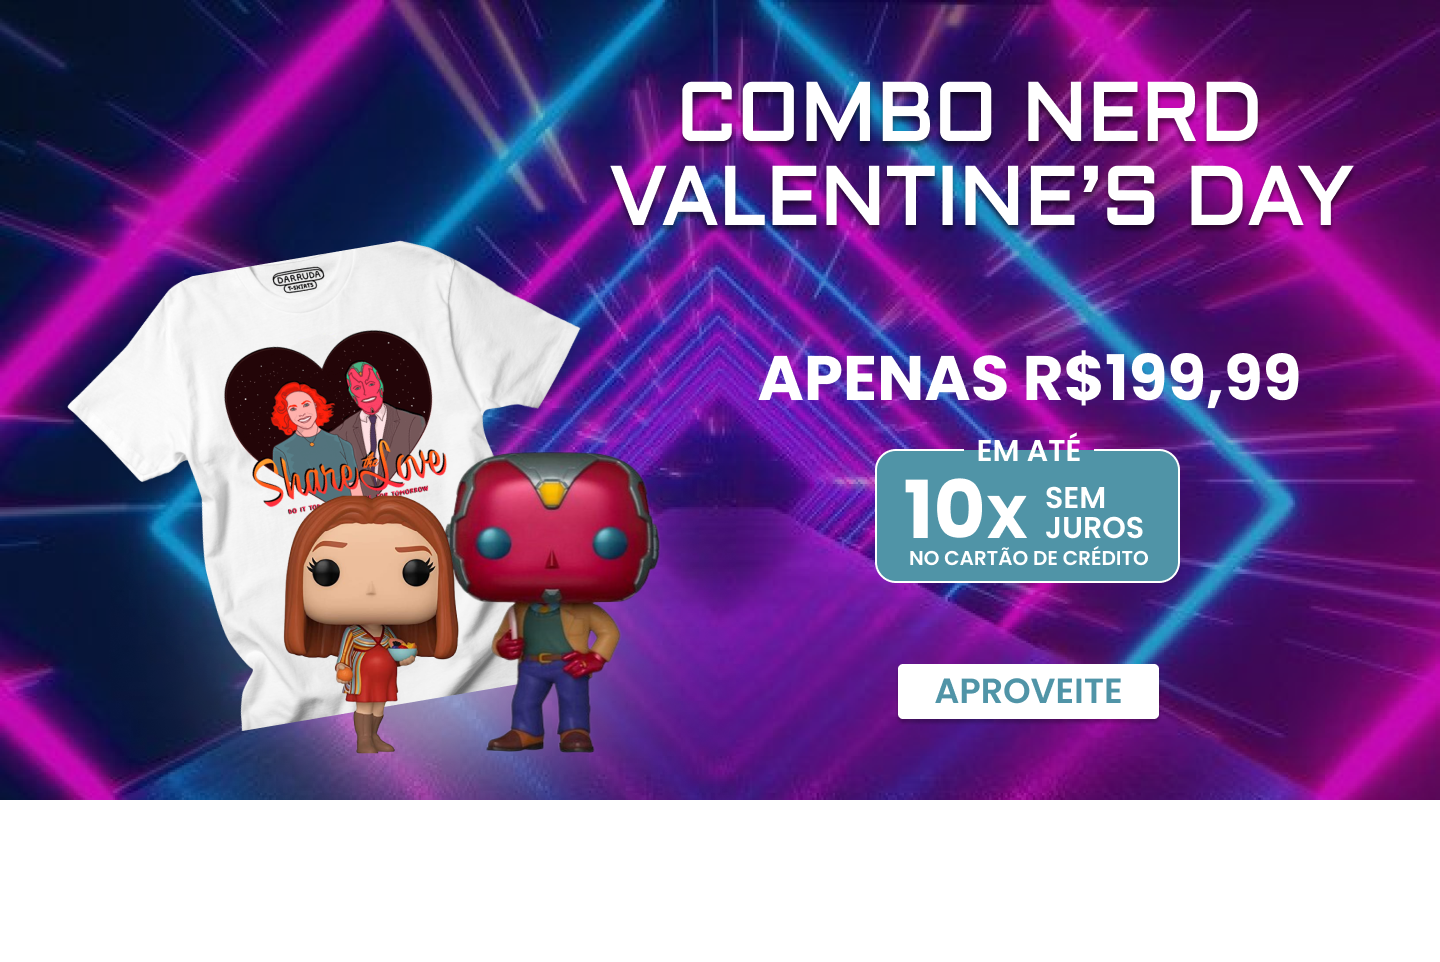
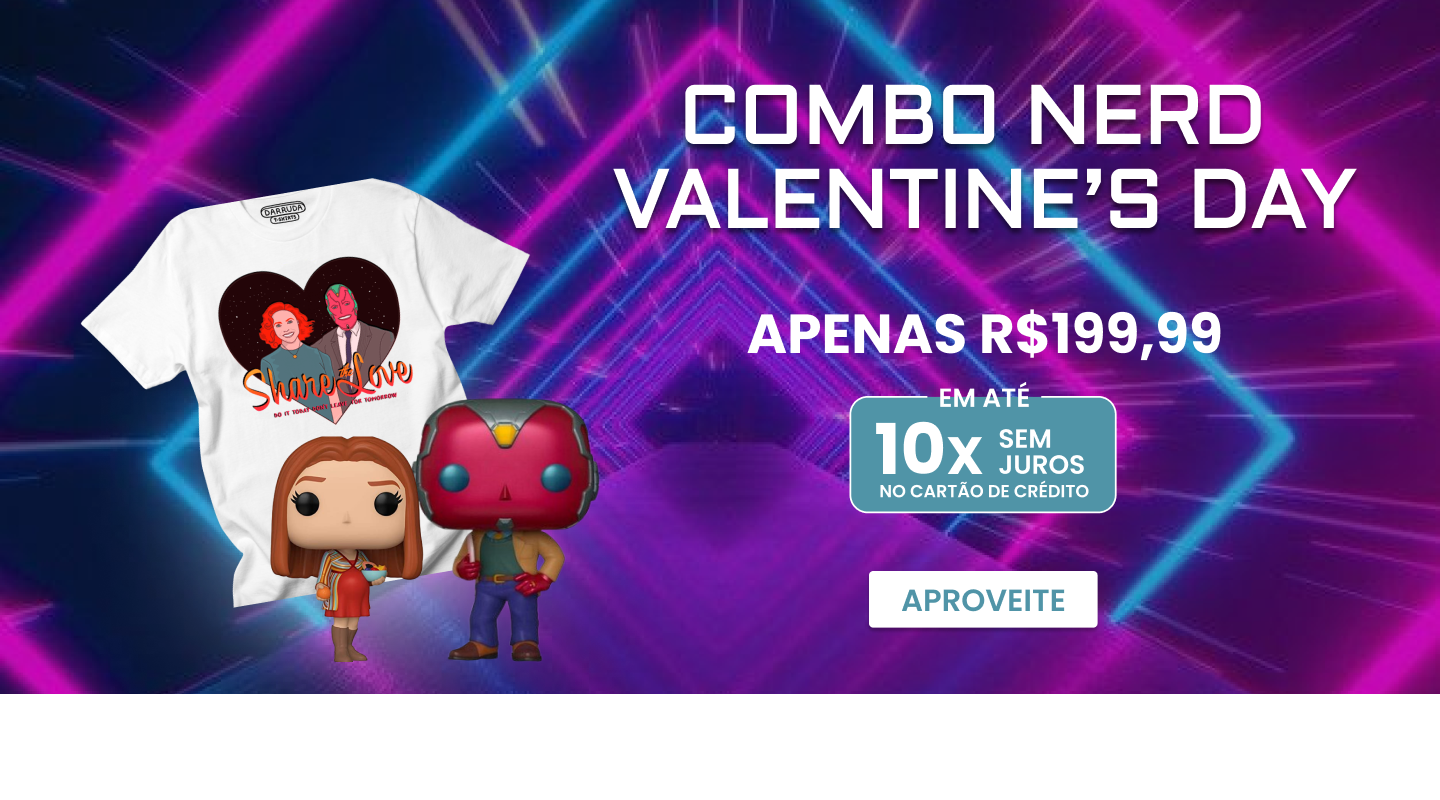
up2

diff --git a/styles/style-index.css b/styles/style-index.css
@@ -2,6 +2,7 @@
 body {
     margin: 0;
     padding: 0;
+    font-family: poppins;
     
     
 }
@@ -42,11 +43,15 @@ nav a {
 
 /*-----------------section--------------------------*/
 section {
-    padding-top: 50px;
-}
-
-section img {
-    max-width: 100%;
-    height: auto;
-    display: block;
-}
+    display: flex;
+    justify-content: center;
+    align-items: center;
+ 
+    background-color: white; /* Adicione essa linha para definir a cor de fundo */
+  }
+  
+  section img {
+    width: 100%;
+    height: 100%;
+    object-fit: cover; /* Adicione essa linha para fazer a imagem preencher o espaço disponível */
+  }

diff --git a/index.html b/index.html
@@ -6,6 +6,7 @@
     <meta name="viewport" content="width=device-width, initial-scale=1.0">
     <link rel="icon" type="image" href="images\oxe-nerd-logo.png"/>
     <link rel="stylesheet" href="styles/style-index.css">
+    <link href='https://fonts.googleapis.com/css?family=Poppins' rel='stylesheet'>
     <title>Oxe Nerd</title>
 </head>
 <body>
